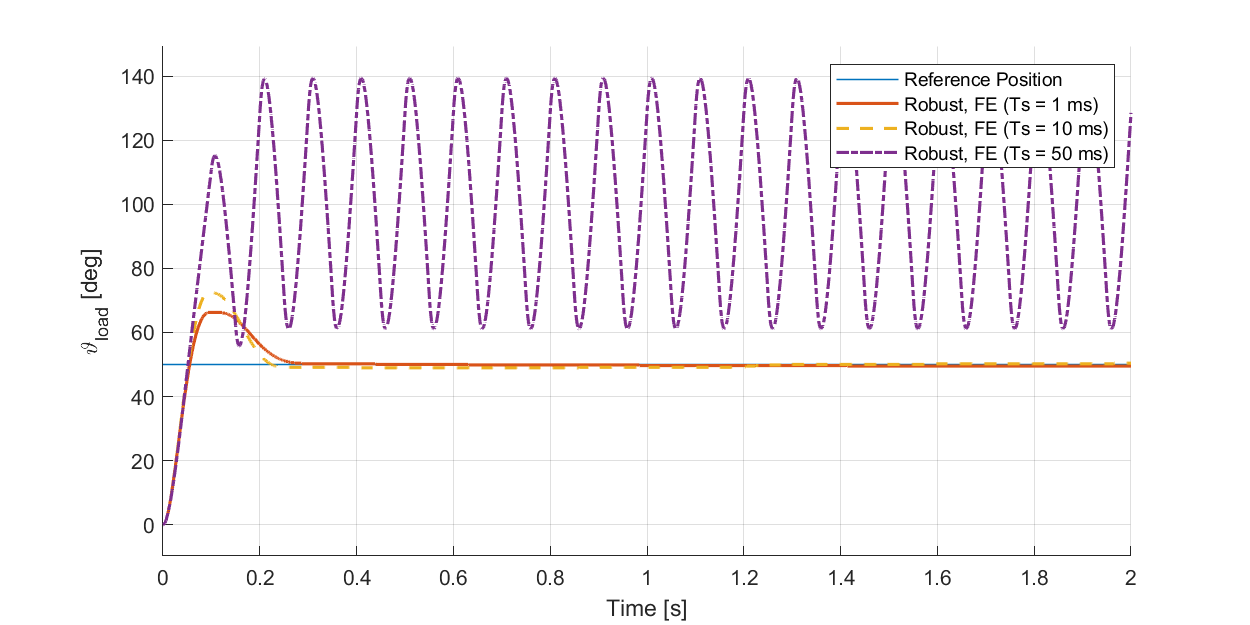
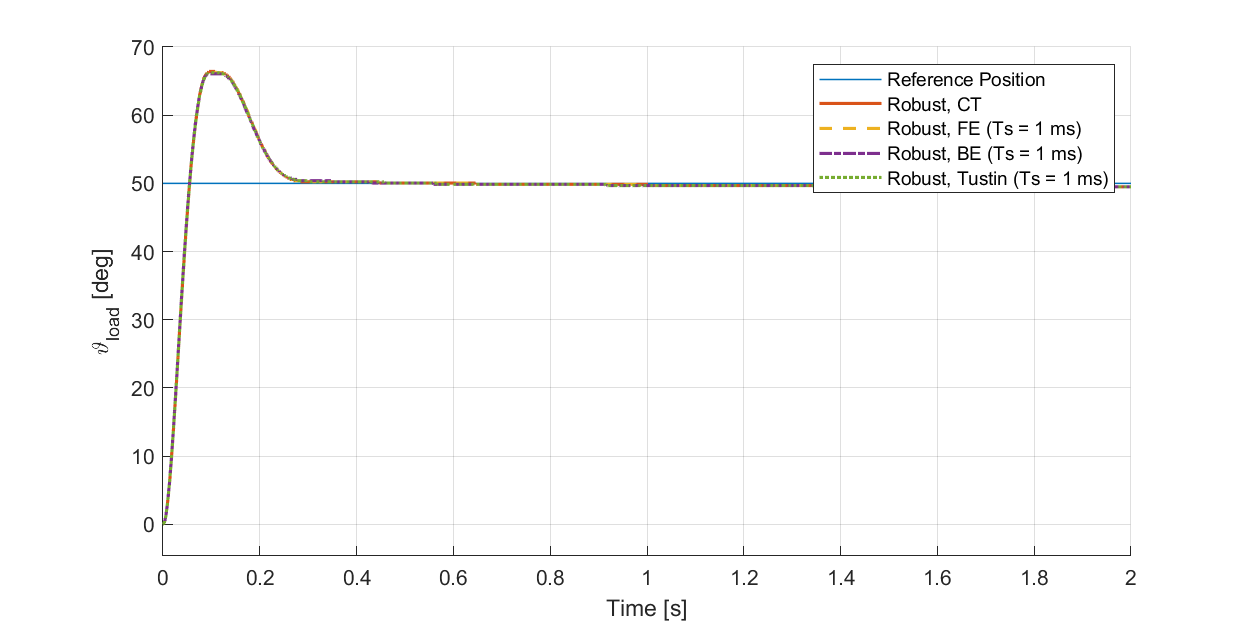
idek

Changed region(s): [[0.0624, 0.0912, 0.9048, 0.8208], [0.0936, 0.0608, 0.1248, 0.152]]

diff --git a/CELAB2/212_StateSpaceEmulation/lab2_startup_ssEmulation.m b/CELAB2/212_StateSpaceEmulation/lab2_startup_ssEmulation.m
@@ -1,23 +1,14 @@
 % Matlab script to start the Simulink simulation an accurate model of the 
 % Quanser SRV-02 + NI DAQ with a discrete time state-space controller and
-% a reduced state observer.
+% a reduced state observer, obtained by emulation.
 clear
-
 
 
 %% Load Predefined Parameters
 load_params_inertial_case
 
-
-
 %% User Inputs
-
 % Motor Parameters
-% Nominal Parameters (estimated from Blackbox)
-%mld.Beq = 1.2224e-6;    % [Nm/(rad/sec)] 
-%mld.tausf = 0.0056;     % [Nm]
-%mld.Jeq = mld.Jeq;      % [kg m^2]
-
 % Actual Parameters (estimated from Motor 1)
 mld.Beq = 2.5663e-6;    % [Nm/(rad/s)]
 mld.tausf = 0.013;      % [Nm]
@@ -33,27 +24,25 @@ specs.settling_time = 0.15; %[s]
 
 %% Simulation Parameters 
 % Sampling time
-sIn.Ts =1e-3; %[s]
+sIn.Ts =10e-3; %[s]
 
 % Solver step time (0.1 ms)
 sIn.step_size = 1e-4;
 
 % Integration methos (1:FE,  2:BE,  3:Tustin)
-sIn.integrationMethod = 3;
+sIn.integrationMethod = 2;
 
 % Choice of nominal or robust controller (0:nominal,  1:robust)
 sIn.nominal_robust = 0;
 
 % List of reference positions [s]
-%sIn.position = [40, 0, 70, 0, 120]; 
-sIn.position = 50;
+sIn.position = [50];
 
 % Time the reference positions are held [s]
 sIn.sample_time = 5; 
 
 % Automatic calculation of total simulation time [s]
 sIn.simulation_time = sIn.sample_time*length(sIn.position);
-
 
 
 %% State-Space Model
@@ -101,9 +90,7 @@ feedback.Nu = feedback.gains(3);
 
 
 % Eigenvalues for robust tracking
-eigP.robustValues = [eigP.real + 1i*eigP.img, ...
-                     eigP.real - 1i*eigP.img, ...
-                     eigP.real];
+eigP.robustValues = [eigP.values, eigP.real];
 
 % State feedback matrix frot the robust case
 feedback.robustKe = acker(plant.Ae, plant.Be, eigP.robustValues);
@@ -116,17 +103,14 @@ if sIn.nominal_robust == 1
 end
 
 
-
 %% Reduced Observer Model
 % Observer eigenvalue
 eigO.damping = eigP.damping;
 eigO.wn = 5*eigP.wn;
 eigO.value = -eigO.damping*eigO.wn;
 
-
 % Observer gain
 obs.L = acker(plant.A(2,2), plant.A(1,2), eigO.value);
-
 
 % Observer matrices (simpilifcations applied)
 obs.A0 = plant.A(2,2)-obs.L*plant.A(1,2);
@@ -135,7 +119,6 @@ obs.C0 = [0;
           1];
 obs.D0 = [0,   1;
           0, obs.L];
-
 
 
 %% Discretized Reduced Observer
@@ -160,4 +143,3 @@ obsTu.J0 = obs.D0 + obs.C0/(1-(obs.A0*sIn.Ts)/2) *obs.B0*sIn.Ts/2;
 % Selection
 obs.tmp = [obsFe, obsBe, obsTu];
 obsD = obs.tmp(sIn.integrationMethod);
-
